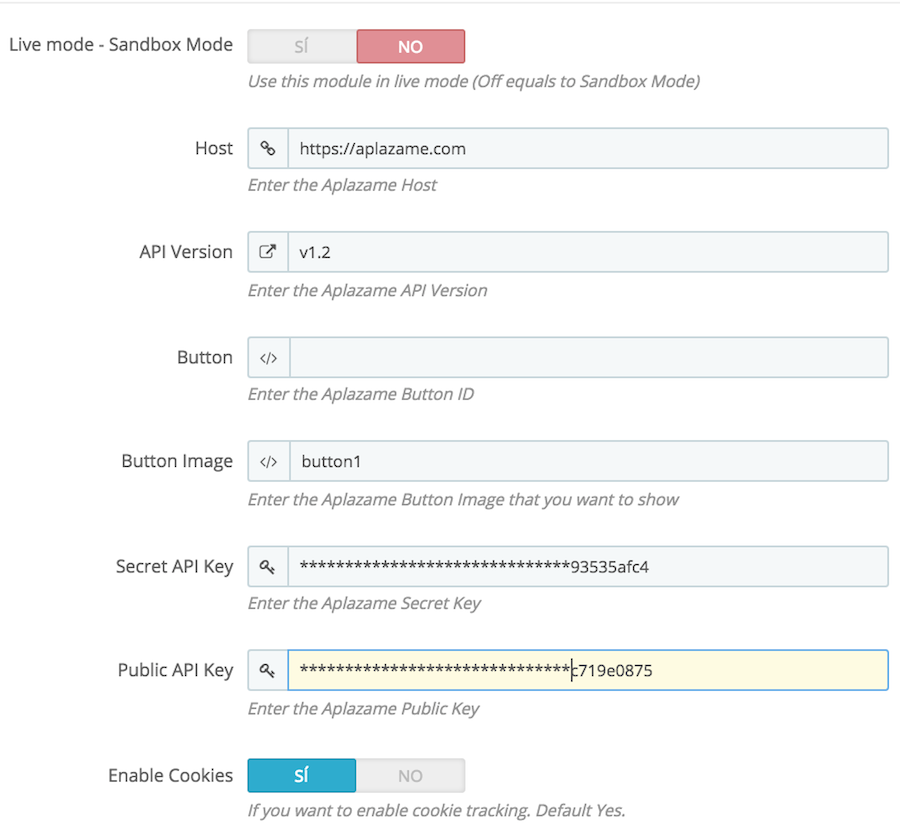
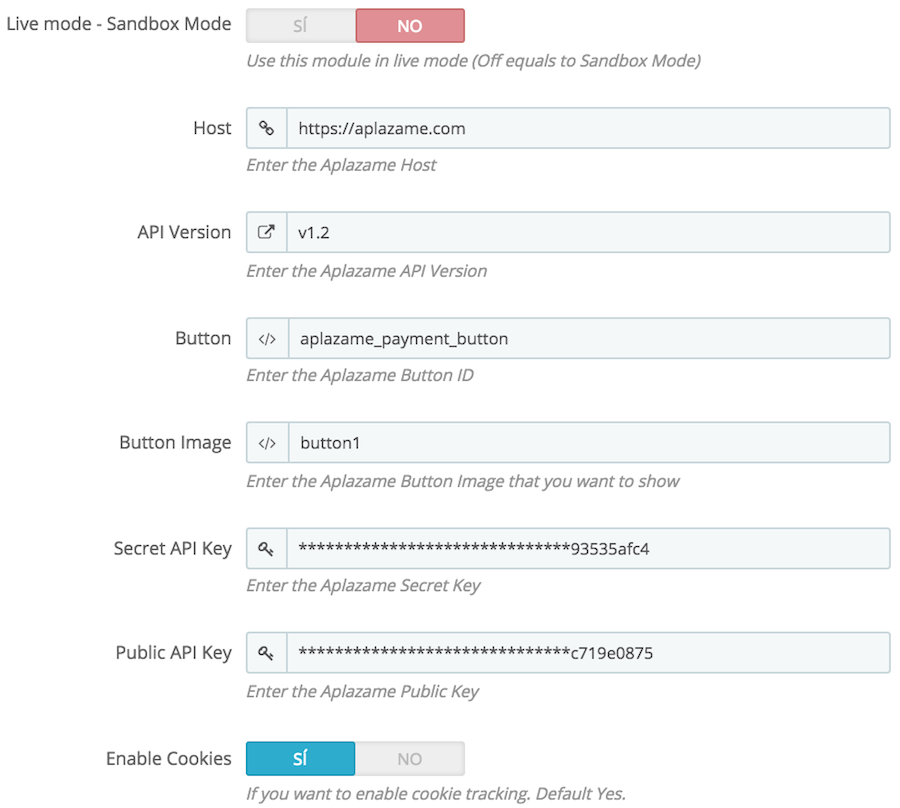
default button id

diff --git a/aplazame/aplazame.php b/aplazame/aplazame.php
@@ -63,6 +63,7 @@ Tu decides cuándo y cómo quieres pagar todas tus compras de manera fácil, có
         Configuration::updateValue('APLAZAME_HOST', 'https://aplazame.com');
         Configuration::updateValue('APLAZAME_API_VERSION', 'v1.2');
         Configuration::updateValue('APLAZAME_BUTTON_IMAGE', 'button1');
+        Configuration::updateValue('APLAZAME_BUTTON_ID', 'aplazame_payment_button');
 
         # modulos -> menu -> submenu -> posiciones de los modulos display Hedare -> trasladar modulo buscar aplazame
         return parent::install() &&
